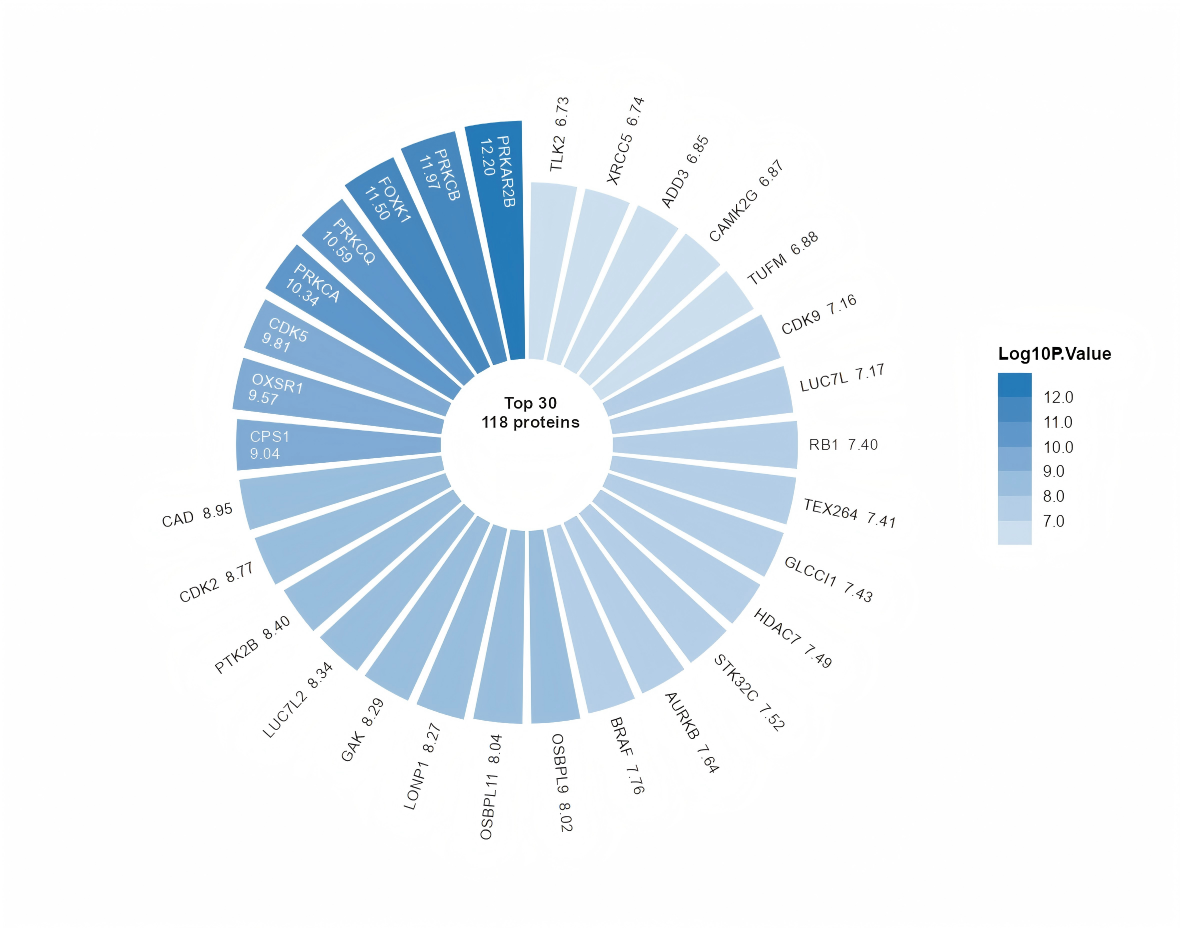
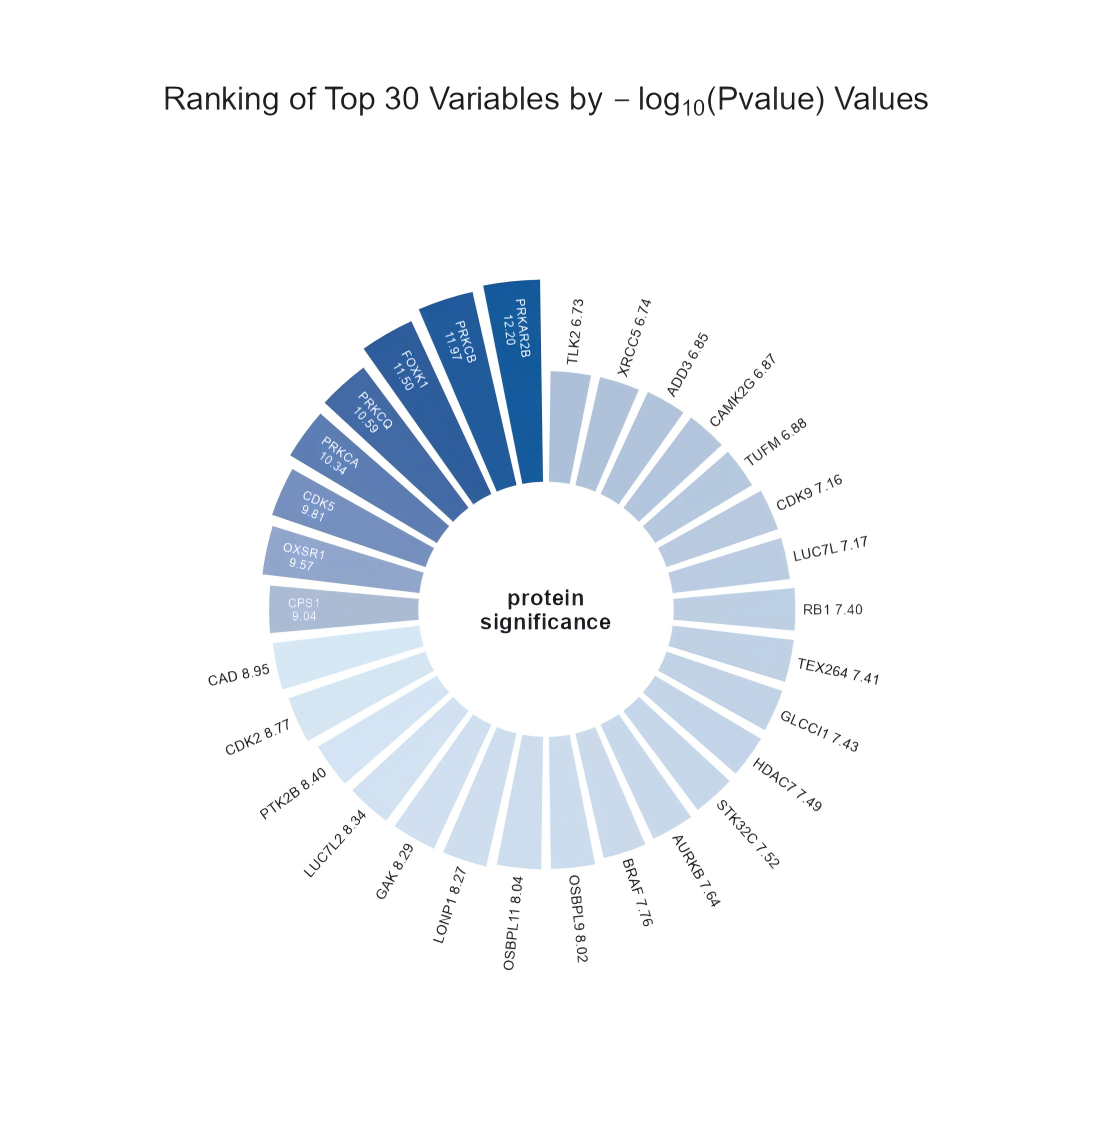
Update StatsVisual documentation and gallery assets

diff --git a/README.md b/README.md
@@ -5,13 +5,13 @@
 </p>
 
 Team:  
-开发人员（Developer）：Haotian Jiang, Wenxiao Du, Bangyu Wang  
-指导老师（Supervisor and Sponsor）：Prof. Yongyue Wei, Peking University  
-内部测试：Graduate students on the team including: Miao Cui, Qiaochu Wei, Ziwei Xi
+Developer：Haotian Jiang, Wenxiao Du, Bangyu Wang  
+Supervisor and Sponsor：Prof. Yongyue Wei, Peking University  
+tester: Miao Cui, Qiaochu Wei, Ziwei Xi
 
 **Language:** English | [简体中文](README.zh-CN.md)
 
-StatsVisual-Skill provides Codex skills for publication-ready medical and biostatistical graphics in R. It helps an AI assistant inspect data first, recommend appropriate figure types, generate reproducible plotting code, and export journal-ready artwork for manuscripts, submissions, and research presentations.
+StatsVisual-Skill provides skills for publication-ready medical and biostatistical graphics in R. It helps an AI assistant inspect data first, recommend appropriate figure types, generate reproducible plotting code, and export journal-ready artwork for manuscripts, submissions, and research presentations.
 
 ## Motivation
 
@@ -182,15 +182,27 @@ The repository ships with concise rewritten guidance and synthetic example data.
 
 ## Installation
 
-Clone the repository and copy the skill folders into your Codex skills directory.
+Clone the repository and copy both skill folders into the skills directory for your target client.
+
+### Codex
 
 ```powershell
 git clone https://github.com/HaotianJiang056/R-plot-skill.git StatsVisual-Skill
-Copy-Item StatsVisual-Skill/skills/StatsVisual-Skill "$env:USERPROFILE/.codex/skills/StatsVisual-Skill" -Recurse -Force
-Copy-Item StatsVisual-Skill/skills/r-journal-style-calibrator "$env:USERPROFILE/.codex/skills/" -Recurse -Force
+Copy-Item ".\StatsVisual-Skill\skills\StatsVisual-Skill\*" "$env:USERPROFILE\.codex\skills\StatsVisual-Skill" -Recurse -Force
+Copy-Item ".\StatsVisual-Skill\skills\r-journal-style-calibrator\*" "$env:USERPROFILE\.codex\skills\r-journal-style-calibrator" -Recurse -Force
 ```
 
-If `CODEX_HOME` is set, copy the folders into `$env:CODEX_HOME/skills/`.
+If `CODEX_HOME` is set, replace `$env:USERPROFILE\.codex` with `$env:CODEX_HOME`.
+
+### CodeBuddy
+
+The CodeBuddy trial provides 500 base credits each month for free use.
+
+```powershell
+git clone https://github.com/HaotianJiang056/R-plot-skill.git StatsVisual-Skill
+Copy-Item ".\StatsVisual-Skill\skills\StatsVisual-Skill\*" "$env:USERPROFILE\.codebuddy\skills\StatsVisual-Skill" -Recurse -Force
+Copy-Item ".\StatsVisual-Skill\skills\r-journal-style-calibrator\*" "$env:USERPROFILE\.codebuddy\skills\r-journal-style-calibrator" -Recurse -Force
+```
 
 ## Windows R Setup
 
@@ -249,7 +261,7 @@ Even for direct drawing requests, the first response should inspect the data, co
 
 ## Community And Use
 
-We welcome researchers, developers, and students to co-build, test, and share improvements to this skill. The skill materials, documentation, examples, and visual assets are protected by copyright. If you plan to cite, reproduce, adapt, redistribute, or use these materials in a public work, please contact the development team in advance.
+We welcome everybody to co-build, test, and share improvements to this skill. The skill materials, documentation, examples, and visual assets are protected by copyright. If you plan to cite, reproduce, adapt, redistribute, or use these materials in a public work, please contact the development team in advance.
 
 ## Acknowledgements
 

diff --git a/skills/StatsVisual-Skill/SKILL.md b/skills/StatsVisual-Skill/SKILL.md
@@ -1,5 +1,5 @@
 ---
-name: r-medical-graphics
+name: StatsVisual-Skill
 description: Create publication-ready medical and biostatistical graphics with R. Use when Codex needs to inspect tabular data, produce a data-profile-first chart recommendation, ask which chart and visual style to use, support general book-derived style, Nature-style figures, Lancet-style clinical figures, NEJM-style clinical trial figures, JAMA-style clinical research figures, or BMJ-style pragmatic clinical figures, then only after the user confirms a chart choice write and run R plotting code, export vector PDF, editable SVG, 700 dpi or higher TIFF, and a web image under 1 MB, or apply medical research visualization conventions for ggplot2, survival curves, heatmaps, regression diagnostics, distribution graphics, and multi-panel figures.
 ---
 
